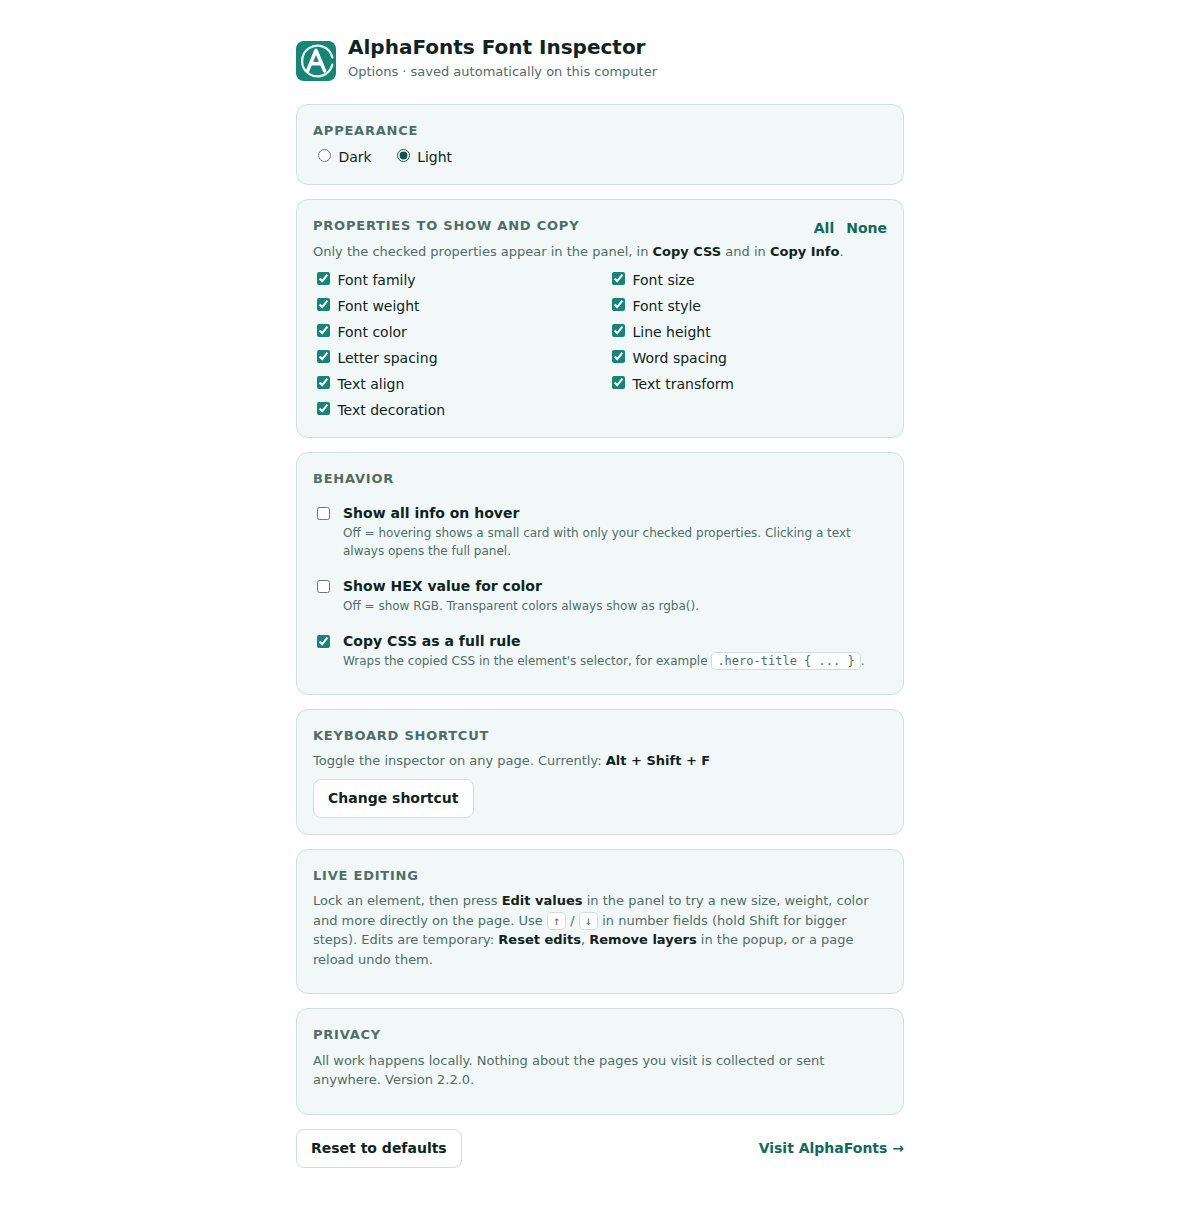
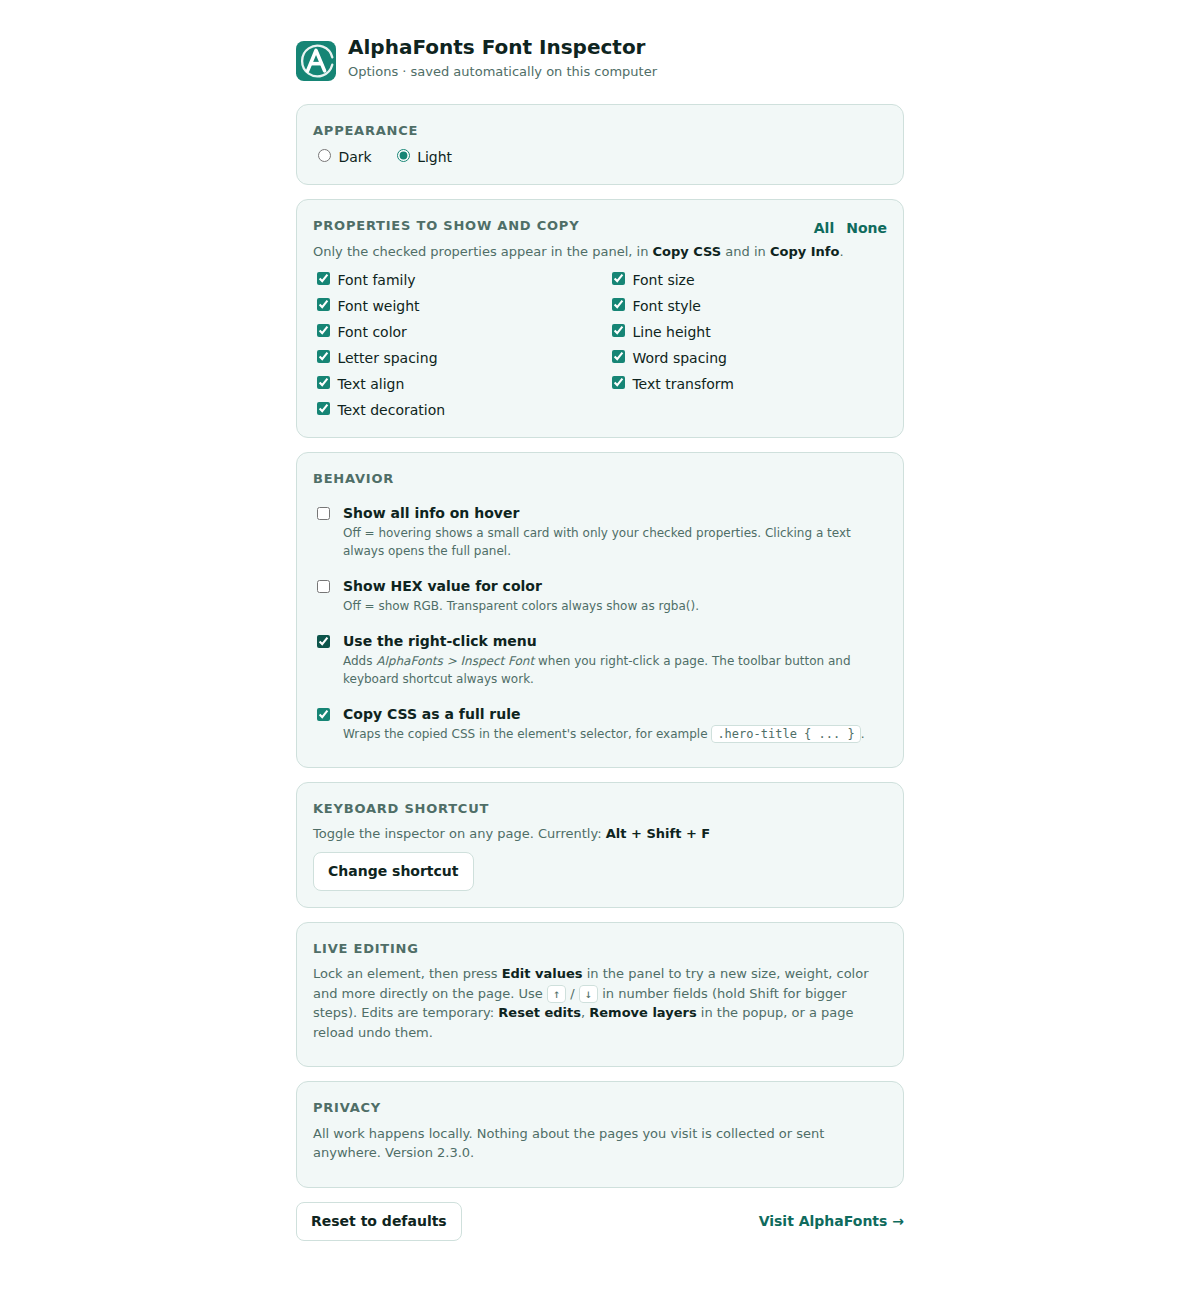
v2.3.0: option to turn the right-click menu on or off
Claude-Session: https://claude.ai/code/session_017yfWFQH32r7Rmbedj6j5u4

Changed region(s): [[0.2467, 0.0312, 0.74, 0.9688], [0.6167, 0.9375, 0.74, 0.9688]]

diff --git a/src/background/background.js b/src/background/background.js
@@ -8,7 +8,7 @@
  *  - relay popup requests to the page and report problems clearly
  *  - show a small "ON" badge while the inspector is running
  */
-importScripts('../shared/constants.js', '../shared/utils.js');
+importScripts('../shared/constants.js', '../shared/utils.js', '../shared/settings.js');
 
 const { MESSAGES, ERRORS, COMMAND_TOGGLE } = self.AlphaFonts.constants;
 const { isRestrictedUrl } = self.AlphaFonts.utils;
@@ -29,16 +29,41 @@ const CONTENT_FILES = [
 // Right-click menu:  AlphaFonts > Inspect Font
 // ---------------------------------------------------------------------
 
-chrome.runtime.onInstalled.addListener(() => {
-  chrome.contextMenus.removeAll(() => {
-    chrome.contextMenus.create({ id: MENU_PARENT_ID, title: 'AlphaFonts', contexts: ['all'] });
-    chrome.contextMenus.create({
-      id: MENU_INSPECT_ID,
-      parentId: MENU_PARENT_ID,
-      title: 'Inspect Font',
-      contexts: ['all']
+/**
+ * Makes the right-click menu match the "Use the right-click menu" setting.
+ * Safe to call any time: it always clears the old menu first.
+ */
+function syncContextMenu(enabled) {
+  return new Promise((resolve) => {
+    chrome.contextMenus.removeAll(() => {
+      void chrome.runtime.lastError;
+      if (!enabled) return resolve(false);
+      chrome.contextMenus.create({ id: MENU_PARENT_ID, title: 'AlphaFonts', contexts: ['all'] }, () => {
+        void chrome.runtime.lastError;
+        chrome.contextMenus.create(
+          { id: MENU_INSPECT_ID, parentId: MENU_PARENT_ID, title: 'Inspect Font', contexts: ['all'] },
+          () => {
+            void chrome.runtime.lastError;
+            resolve(true);
+          }
+        );
+      });
     });
   });
+}
+
+async function refreshContextMenu() {
+  const settings = await self.AlphaFonts.settings.load();
+  return syncContextMenu(settings.contextMenu);
+}
+
+chrome.runtime.onInstalled.addListener(refreshContextMenu);
+chrome.runtime.onStartup.addListener(refreshContextMenu);
+
+// Turning the option on or off in Options (or anywhere else) updates the menu straight away.
+chrome.storage.onChanged.addListener((changes, area) => {
+  const next = self.AlphaFonts.settings.fromChange(changes, area);
+  if (next) syncContextMenu(next.contextMenu);
 });
 
 chrome.contextMenus.onClicked.addListener((info, tab) => {

diff --git a/tests/utils.test.js b/tests/utils.test.js
@@ -109,13 +109,15 @@ test('settings are always complete and valid, and old theme-only data still work
   assert.strictEqual(fresh.theme, 'dark');
   assert.strictEqual(fresh.colorFormat, 'hex');
   assert.strictEqual(fresh.showAllOnHover, true);
+  assert.strictEqual(fresh.contextMenu, true);
   assert.strictEqual(Object.keys(fresh.properties).length, settings.PROPERTIES.length);
   assert.ok(Object.values(fresh.properties).every((v) => v === true));
   assert.strictEqual(settings.normalize(undefined, 'light').theme, 'light'); // version 2.0 data
-  const custom = settings.normalize({ theme: 'nope', colorFormat: 'rgb', showAllOnHover: false, properties: { fontSize: false, bogus: false } });
+  const custom = settings.normalize({ theme: 'nope', colorFormat: 'rgb', showAllOnHover: false, contextMenu: false, properties: { fontSize: false, bogus: false } });
   assert.strictEqual(custom.theme, 'dark');
   assert.strictEqual(custom.colorFormat, 'rgb');
   assert.strictEqual(custom.showAllOnHover, false);
+  assert.strictEqual(custom.contextMenu, false);
   assert.strictEqual(custom.properties.fontSize, false);
   assert.strictEqual(custom.properties.fontFamily, true);
   assert.strictEqual('bogus' in custom.properties, false);

diff --git a/src/options/options.html b/src/options/options.html
@@ -45,6 +45,7 @@
       <h2>Behavior</h2>
       <label class="check"><input type="checkbox" id="showAllOnHover"> <span><strong>Show all info on hover</strong><small>Off = hovering shows a small card with only your checked properties. Clicking a text always opens the full panel.</small></span></label>
       <label class="check"><input type="checkbox" id="hex"> <span><strong>Show HEX value for color</strong><small>Off = show RGB. Transparent colors always show as rgba().</small></span></label>
+      <label class="check"><input type="checkbox" id="contextMenu"> <span><strong>Use the right-click menu</strong><small>Adds <em>AlphaFonts &gt; Inspect Font</em> when you right-click a page. The toolbar button and keyboard shortcut always work.</small></span></label>
       <label class="check"><input type="checkbox" id="copyAsRule"> <span><strong>Copy CSS as a full rule</strong><small>Wraps the copied CSS in the element's selector, for example <code>.hero-title { ... }</code>.</small></span></label>
     </section>
 

diff --git a/src/options/options.js b/src/options/options.js
@@ -13,6 +13,7 @@
     $('showAllOnHover').checked = settings.showAllOnHover;
     $('hex').checked = settings.colorFormat === 'hex';
     $('copyAsRule').checked = settings.copyAsRule;
+    $('contextMenu').checked = settings.contextMenu;
   }
 
   async function update(patch) {
@@ -42,6 +43,7 @@
     $('showAllOnHover').addEventListener('change', (e) => update({ showAllOnHover: e.target.checked }));
     $('hex').addEventListener('change', (e) => update({ colorFormat: e.target.checked ? 'hex' : 'rgb' }));
     $('copyAsRule').addEventListener('change', (e) => update({ copyAsRule: e.target.checked }));
+    $('contextMenu').addEventListener('change', (e) => update({ contextMenu: e.target.checked }));
     $('props-all').addEventListener('click', () => setAll(true));
     $('props-none').addEventListener('click', () => setAll(false));
     $('reset').addEventListener('click', async () => {

diff --git a/src/shared/settings.js b/src/shared/settings.js
@@ -27,7 +27,7 @@
   function defaults() {
     const properties = {};
     for (const p of PROPERTIES) properties[p.key] = true;
-    return { theme: 'dark', colorFormat: 'hex', showAllOnHover: true, copyAsRule: false, properties };
+    return { theme: 'dark', colorFormat: 'hex', showAllOnHover: true, copyAsRule: false, contextMenu: true, properties };
   }
 
   /** Turns whatever is in storage into a complete, valid settings object. */
@@ -45,6 +45,7 @@
       colorFormat: saved.colorFormat === 'rgb' ? 'rgb' : 'hex',
       showAllOnHover: saved.showAllOnHover !== false,
       copyAsRule: saved.copyAsRule === true,
+      contextMenu: saved.contextMenu !== false,
       properties
     };
   }

diff --git a/README.md b/README.md
@@ -4,7 +4,7 @@
 
 Inspect fonts, typography, and CSS styles on any webpage. Hover over text, click to lock it, and copy the CSS.
 
-Made by [AlphaFonts](https://alphafonts.com). Version 2.2.0 for Google Chrome (Manifest V3).
+Made by [AlphaFonts](https://alphafonts.com). Version 2.3.0 for Google Chrome (Manifest V3).
 
 ![Popup](screenshots/popup.png)
 ![Inspector panel](screenshots/inspector-locked.png)
@@ -60,7 +60,7 @@ While inspecting, clicks are used to pick text, so links and buttons on the page
 Other ways to start:
 
 - Press `Alt + Shift + F` (press it again to stop).
-- Right-click the page and choose **AlphaFonts > Inspect Font**.
+- Right-click the page and choose **AlphaFonts > Inspect Font** (can be turned off in Options).
 
 You can change the shortcut at `chrome://extensions/shortcuts`. The popup always shows the shortcut that is currently set.
 
@@ -109,7 +109,11 @@ Permissions used, and why:
 | `contextMenus` | Adds the **AlphaFonts > Inspect Font** right-click item. |
 | `storage` | Saves your settings (theme, chosen properties, switches) on your own computer. Nothing else is stored. |
 
-## What's new in 2.2
+## What's new in 2.3
+
+- New option to turn the right-click menu (**AlphaFonts > Inspect Font**) on or off. The toolbar button and shortcut always work.
+
+## What was new in 2.2
 
 - New AlphaFonts logo for the toolbar icon, popup, options page and in-page panel.
 - New color scheme taken from the logo: brand teal `#168575` and mist white `#E8F3F1`, in both dark and light themes.
